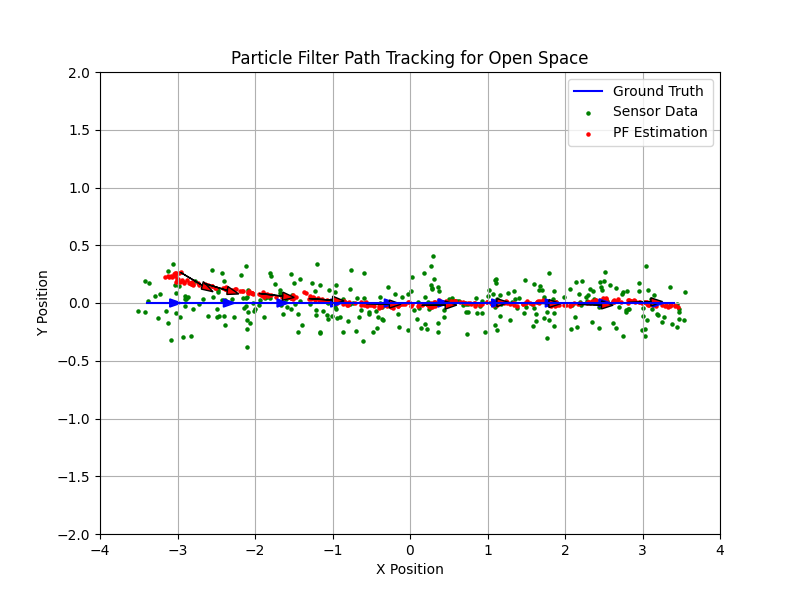
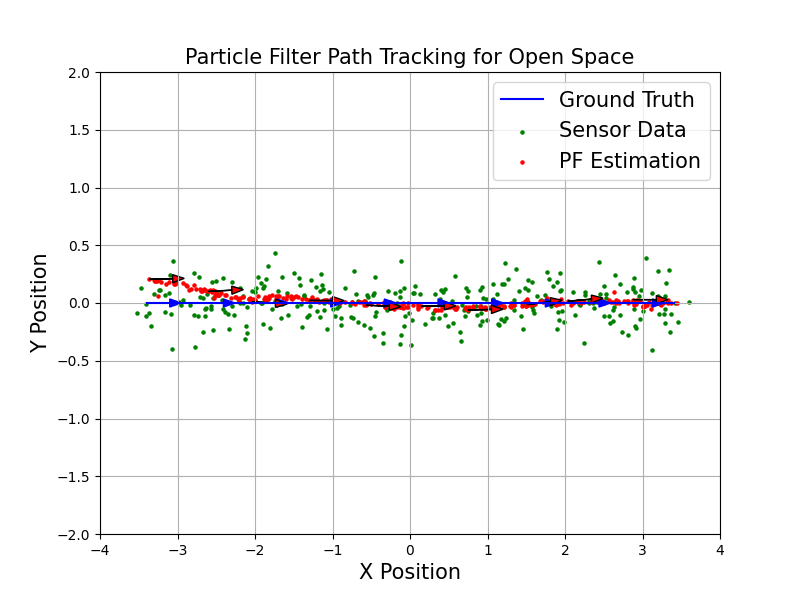
update figure

diff --git a/pf.py b/pf.py
@@ -19,7 +19,7 @@ NUM_PARTICLES = 300 # number of particles for particle filter
 X_MAX = 8 # max x length for map
 Y_MAX = 4 # max y length for map
 ACTION_ONLY = False
-CHECK_COLLISION = False#True
+CHECK_COLLISION = False
 MAP = "minor_obstacle.json" 
 PATH = "minor_obstacle.txt" 
 # MAP = "open_space.json"
@@ -258,11 +258,11 @@ def main_pf(path_pf, map_pf):
                   0.3 * np.cos(pf.estimated_path[i][2]), 0.3 * np.sin(pf.estimated_path[i][2]), 
                   head_width=0.07, head_length=0.15, fc='red', ec='black')
 
-    plt.legend()
-    plt.xlabel('X Position')
-    plt.ylabel('Y Position')
+    plt.legend(fontsize = 15)
+    plt.xlabel('X Position', fontsize = 15)
+    plt.ylabel('Y Position', fontsize = 15)
     plt.grid(True)
-    plt.title(f'Particle Filter Path Tracking for {path_pf.replace("_", " ").replace(".txt", "").title()}')
+    plt.title(f'Particle Filter Path Tracking for {path_pf.replace("_", " ").replace(".txt", "").title()}', fontsize = 15)
     
     plt.figure(2, figsize=(8, 6))
     plt.xlim(-4,4)
@@ -270,11 +270,11 @@ def main_pf(path_pf, map_pf):
     plt.plot(path.T[0], path.T[1], label='Ground Truth', c='b')
     plt.scatter(np.array(z_cache).T[0], np.array(z_cache).T[1], s=5, label='Sensor Data', c='g')
     plt.scatter(np.array(particles_cache).T[0], np.array(particles_cache).T[1], s=5 ,label='PF Particles example', c='r')
-    plt.legend()
-    plt.xlabel('X Position')
-    plt.ylabel('Y Position')
+    plt.legend(fontsize = 15)
+    plt.xlabel('X Position', fontsize = 15)
+    plt.ylabel('Y Position', fontsize = 15)
     plt.grid(True)
-    plt.title(f'Particle Filter Particle Examples for {path_pf.replace("_", " ").replace(".txt", "").title()}')
+    plt.title(f'Particle Filter Particle Examples for {path_pf.replace("_", " ").replace(".txt", "").title()}', fontsize = 15)
 
     # plt.figure(3, figsize=(8, 6))
     # plt.xlim(-4,4)
@@ -282,6 +282,7 @@ def main_pf(path_pf, map_pf):
     # plt.scatter(pf.particles_t0.T[0], pf.particles_t0.T[1], s=5, c='r')
 
     plt.show(block=False) 
+    # plt.show() 
     disconnect()
     return rmse, collision_count
 

diff --git a/kf.py b/kf.py
@@ -122,10 +122,10 @@ def main_kf(path_kf, map_kf):
     # plt.scatter(kf_states[-1, 0], kf_states[-1, 1], color='r', marker='X', s=100, label="End (EKF)", edgecolor='black')
 
     # Adding labels, title, grid, and legend
-    plt.xlabel("X Position") 
-    plt.ylabel("Y Position") 
-    plt.title(f'Kalman Filter Path Tracking for {path_kf.replace("_", " ").replace(".txt", "").title()}') 
-    plt.legend() 
+    plt.xlabel("X Position", fontsize = 15) 
+    plt.ylabel("Y Position", fontsize = 15) 
+    plt.title(f'Kalman Filter Path Tracking for {path_kf.replace("_", " ").replace(".txt", "").title()}', fontsize = 15) 
+    plt.legend(fontsize = 15) 
     plt.grid(True) 
     plt.show(block=False) 
     disconnect()

diff --git a/demo.py b/demo.py
@@ -39,7 +39,7 @@ def main(screenshot=False):
             draw(pos,'black', radius=0.07)
         execute_trajectory(robots['pr2'], base_joints, path_gui.T, sleep=0.01)
         print(f"Path shown, please following the guidance:")
-        wait_if_gui()
+        # wait_if_gui()
         disconnect()
 
         # run kf and pf
